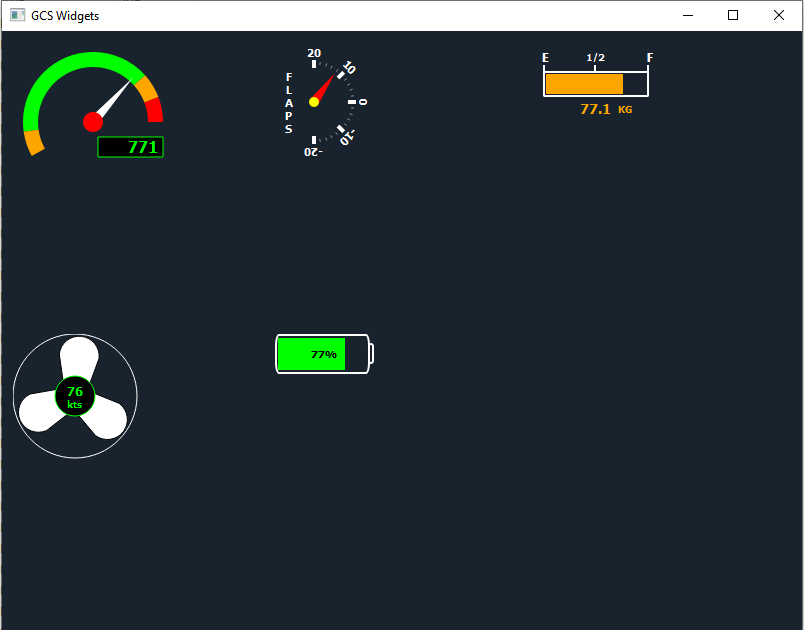
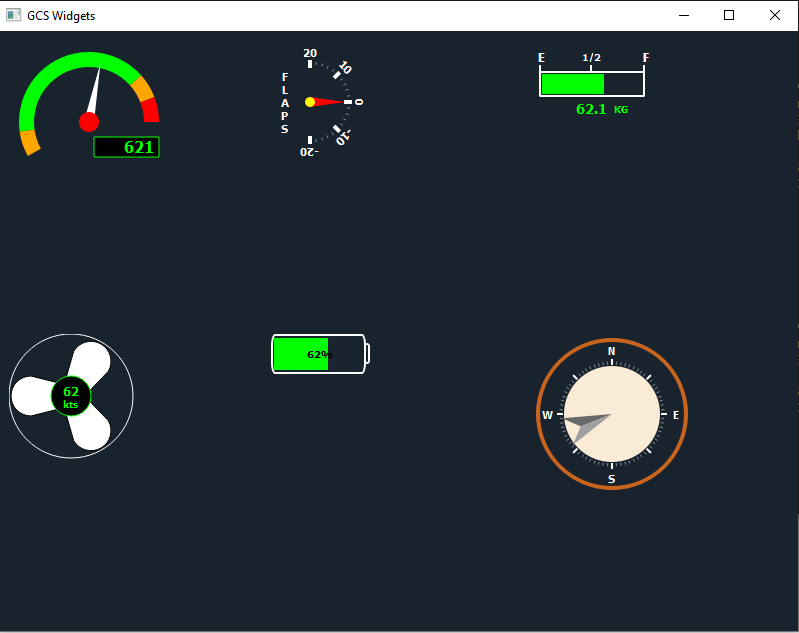
Added wind direction

diff --git a/winddirdial.cpp b/winddirdial.cpp
@@ -1,0 +1,133 @@
+#include "winddirdial.h"
+#include <QPainter>
+#include <cmath>
+#include <QTimer>
+
+WindDirDial::WindDirDial(QWidget *parent) : QWidget(parent)
+{
+    // Set arrow length to 30% of the width
+    m_arrowLen = static_cast<int32_t>(m_width * .3);
+    timer = new QTimer;
+    connect(timer, &QTimer::timeout, [this, dir=0.0]() mutable {
+        this->setWindDirection(dir);
+        dir += 1;
+    });
+//    timer->start(50);
+}
+
+QSize WindDirDial::sizeHint() const
+{
+    return QSize(m_width, m_width);
+}
+
+QSize WindDirDial::minimumSizeHint() const
+{
+    return QSize(m_width, m_width);
+}
+
+void WindDirDial::setWidth(int32_t w)
+{
+    m_width = w;
+    m_height = w;
+    m_arrowLen = static_cast<int32_t>(m_width * .3);
+}
+
+int32_t WindDirDial::getWidth() const
+{
+    return m_width;
+}
+
+
+void WindDirDial::paintEvent(QPaintEvent *event)
+{
+    Q_UNUSED(event)
+    QPainter painter(this);
+    painter.setRenderHint(QPainter::Antialiasing, true);
+
+    QFont font = painter.font();
+    font.setBold(true);
+    painter.setFont(font);
+
+    painter.setViewport(0, 0, m_width, m_height);
+    painter.setWindow(-m_width/2, -m_height/2, m_width, m_height);
+//    painter.drawRect(-m_width/2, -m_height/2, m_width, m_height);
+
+    painter.save();
+    painter.setBrush(QColor(250, 235, 215));
+    painter.setPen(Qt::NoPen);
+    painter.drawEllipse(QPointF(0, 0), m_arrowLen, m_arrowLen);
+    painter.restore();
+
+    painter.save();
+    QPen thickPen(Qt::white, 2);
+    QPen thinPen(Qt::white, 0.5);
+
+    painter.setPen(thickPen);
+    for(auto i = 0; i < 8; ++i) {
+        painter.drawLine(0, -m_arrowLen - 2, 0, -m_arrowLen - 6);
+        painter.rotate(45);
+    }
+    painter.restore();
+
+    painter.save();
+    painter.setPen(thinPen);
+    for(auto i = 0; i < 72; ++i) {
+        painter.rotate(5);
+        painter.drawLine(0, -m_arrowLen-2, 0, -m_arrowLen - 4);
+    }
+    painter.restore();
+
+    painter.setPen(QPen(Qt::white));
+    painter.drawText(-10, -m_arrowLen-26, 20, 20, Qt::AlignCenter, "N");
+    painter.drawText(-10, m_arrowLen+6,  20, 20, Qt::AlignCenter, "S");
+    painter.drawText(m_arrowLen+6, -10, 20, 20, Qt::AlignCenter, "E");
+    painter.drawText(-m_arrowLen-26, -10, 20, 20, Qt::AlignCenter, "W");
+
+    painter.setPen(QPen(QColor(200, 100, 30), 4));
+    painter.drawEllipse(QPointF(0, 0), m_arrowLen+26, m_arrowLen+26);
+
+    painter.save();
+    painter.setPen(Qt::NoPen);
+    double x {0.7}, y{0.3};
+
+    // draw arrow now
+    QPalette pal;
+    painter.rotate(m_windDir);
+
+//    QPainterPath path1;
+//    path1.lineTo(x*m_arrowLen, 0.0);
+//    path1.lineTo(m_arrowLen, y*m_arrowLen);
+//    painter.setBrush(pal.brush(QPalette::ColorGroup::Active, QPalette::Light));
+//    painter.drawPath(path1);
+
+//    QPainterPath path2;
+//    path2.lineTo(x*m_arrowLen, 0);
+//    path2.lineTo(m_arrowLen, -y*m_arrowLen);
+//    painter.setBrush(pal.brush(QPalette::ColorGroup::Active, QPalette::Dark));
+//    painter.drawPath(path2);
+
+    QPainterPath path3;
+    path3.lineTo(0, -x*m_arrowLen);
+    path3.lineTo(y*m_arrowLen, -m_arrowLen);
+    painter.setBrush(pal.brush(QPalette::ColorGroup::Active, QPalette::Shadow));
+    painter.drawPath(path3);
+
+    QPainterPath path4;
+    path4.lineTo(0, -x*m_arrowLen);
+    path4.lineTo(-y*m_arrowLen, -m_arrowLen);
+    painter.setBrush(pal.brush(QPalette::ColorGroup::Active, QPalette::Dark));
+    painter.drawPath(path4);
+
+    painter.restore();
+}
+
+void WindDirDial::setWindDirection(double dir)
+{
+    if(abs(m_windDir - dir) > 0.1){
+        if(dir < 0) {
+            dir += 360;
+        }
+        m_windDir = dir;
+        update();
+    }
+}

diff --git a/widget.cpp b/widget.cpp
@@ -12,6 +12,7 @@
 #include "fuelindicator.h"
 #include "speedfan.h"
 #include "battery.h"
+#include "winddirdial.h"
 
 Widget::Widget(QWidget *parent)
     : QWidget(parent)
@@ -53,11 +54,15 @@ Widget::Widget(QWidget *parent)
     // Battery
     m_battery = new Battery;
 
+    // Wind direction
+    m_windDir = new WindDirDial;
+
     m_grid->addWidget(m_rpmDial, 0, 0);
     m_grid->addWidget(m_flap,    0, 1);
     m_grid->addWidget(m_fuel,    0, 2);
     m_grid->addWidget(m_fan,     1, 0);
     m_grid->addWidget(m_battery, 1, 1);
+    m_grid->addWidget(m_windDir, 1, 2);
 
     this->setLayout(m_grid);
 
@@ -84,6 +89,8 @@ Widget::Widget(QWidget *parent)
         
         // battery
         m_battery->setValue(static_cast<int32_t>(m_rpm * .1));
+
+        m_windDir->setWindDirection(m_rpm * .4);
 
         if( tick % 10 == 0 ) {
 

diff --git a/winddirdial.h b/winddirdial.h
@@ -1,0 +1,32 @@
+#ifndef WINDDIRDIAL_H
+#define WINDDIRDIAL_H
+
+#include <QWidget>
+class QTimer;
+class WindDirDial : public QWidget
+{
+    Q_OBJECT
+public:
+    explicit WindDirDial(QWidget *parent = nullptr);
+    QSize sizeHint() const;
+    QSize minimumSizeHint() const;
+    void setWidth(int32_t w);
+    int32_t getWidth() const;
+
+protected:
+    void paintEvent(QPaintEvent *event);
+
+signals:
+
+public slots:
+    void setWindDirection(double dir);
+
+private:
+    double    m_windDir{45};
+    int32_t   m_width{160};
+    int32_t   m_height{m_width};
+    int32_t   m_arrowLen{};
+    QTimer    *timer;
+};
+
+#endif // WINDDIRDIAL_H

diff --git a/widget.h b/widget.h
@@ -13,6 +13,7 @@ class FuelIndicator;
 class QGridLayout;
 class SpeedFan;
 class Battery;
+class WindDirDial;
 
 class Widget : public QWidget
 {
@@ -29,6 +30,7 @@ private:
     FuelIndicator   *m_fuel;
     SpeedFan        *m_fan;
     Battery         *m_battery;
+    WindDirDial     *m_windDir;
 
     QGridLayout     *m_grid{};
 
